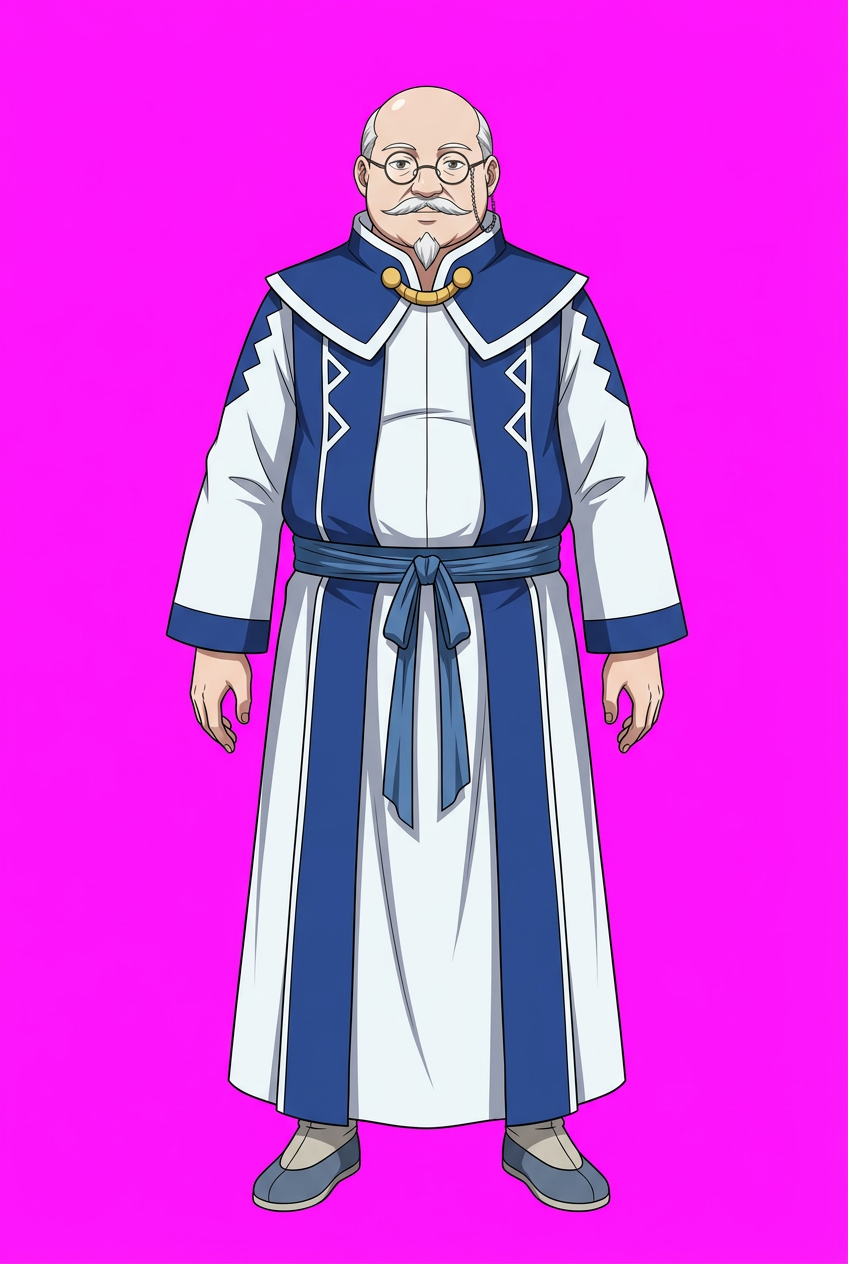
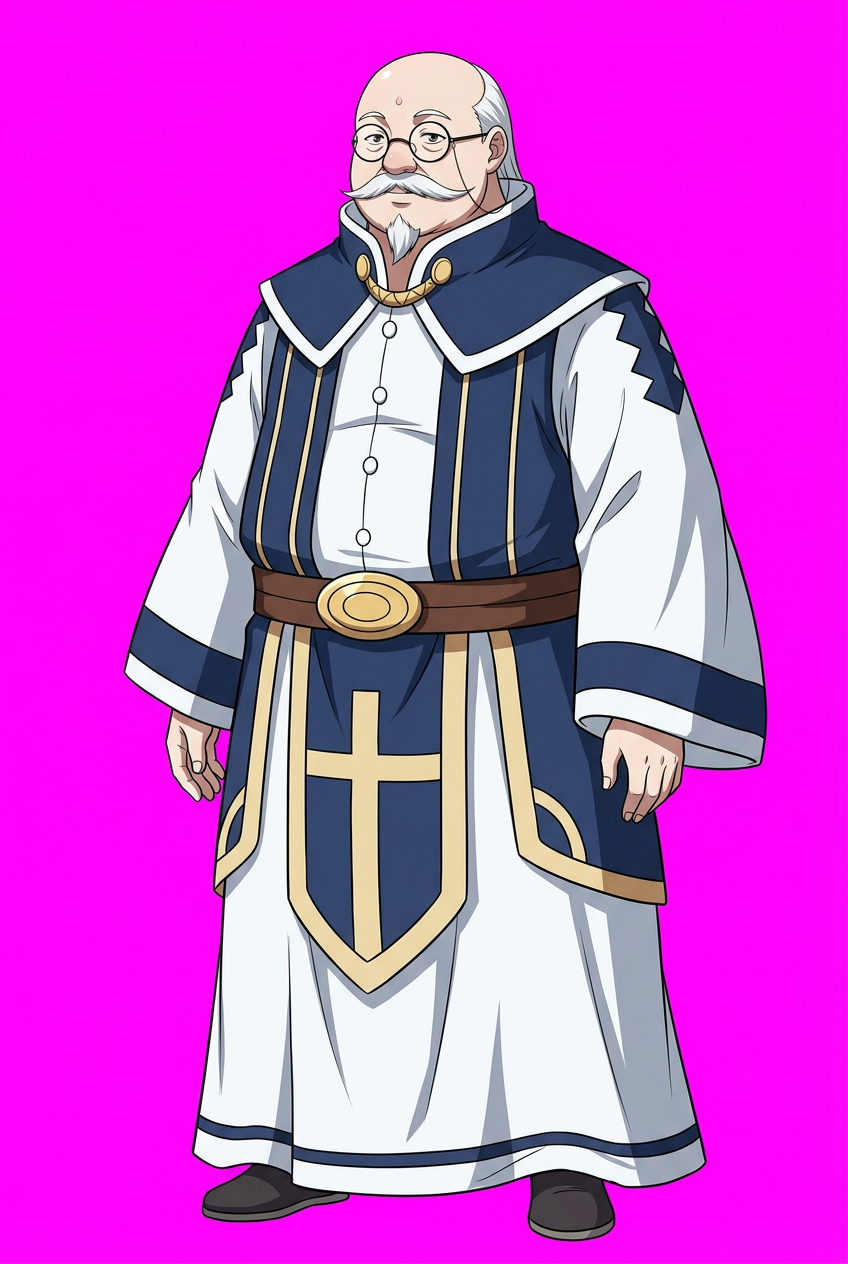
复核第3章: 琥乾(112话)重画; 千木/百烈一致

diff --git a/dev/design/漫画复核进度.md b/dev/design/漫画复核进度.md
@@ -78,6 +78,9 @@
 | 吴昊 | wuhao | 107-08/09（对白 Es Wu Hao… Ashura de Sangre） | ❌→已重画（原为黑大衣红围巾；漫画为红色后梳长发、黑红交叉前襟长外衣、红色手套、银色护臂、圆扣腰带+长黑飘带，无围巾） |
 | 林焱 | linyan | 125-21/24（对白 Lin Yan redevient fou） | ❌→已重画（原为黑夹克；漫画为黝黑皮肤、白色短刺发、粗黑眉、脸颊红疤纹、白衬衫暗红领边+灰褐格纹马甲、袖子卷起） |
 | 韩闲 | hanxian | 130-12/15/16（对白 Tu es Han Xian du clan médicinal） | ❌→已重画（原为酒红长外套领巾；漫画为灰绿色后梳长发、白色高领巾、白衬衫、黑色无袖长外袍米金内衬白边、灰色前襟、白鞋） |
+| 千木 / 百烈 | qianmu / bailie | 112-07 | ✅ 一致（千木：深褐斗篷灰长发；百烈：白色高领长衣蒙眼） |
+| 琥乾 | hugan | 112-03/06（对白 Hu Gan de la branche externe） | 🔧→已重画（蓝布腰带改为棕色皮带+金色圆扣；补上藏青金色十字纹前襟、金领链、藏青披肩白色锯齿边） |
+| 凌影 | lingying | 63-03/05（蒙面兜帽黑衣）；fandom 摘面罩后黝黑老脸 | ⏳ 待定游戏中用哪一形象（问用户） |
 
 ## 用户决定（2026-09-27）
 - 云山第二形态：选A——人物图不变，半血时身后冒出魂殿黑影（特效层），招式变强。
